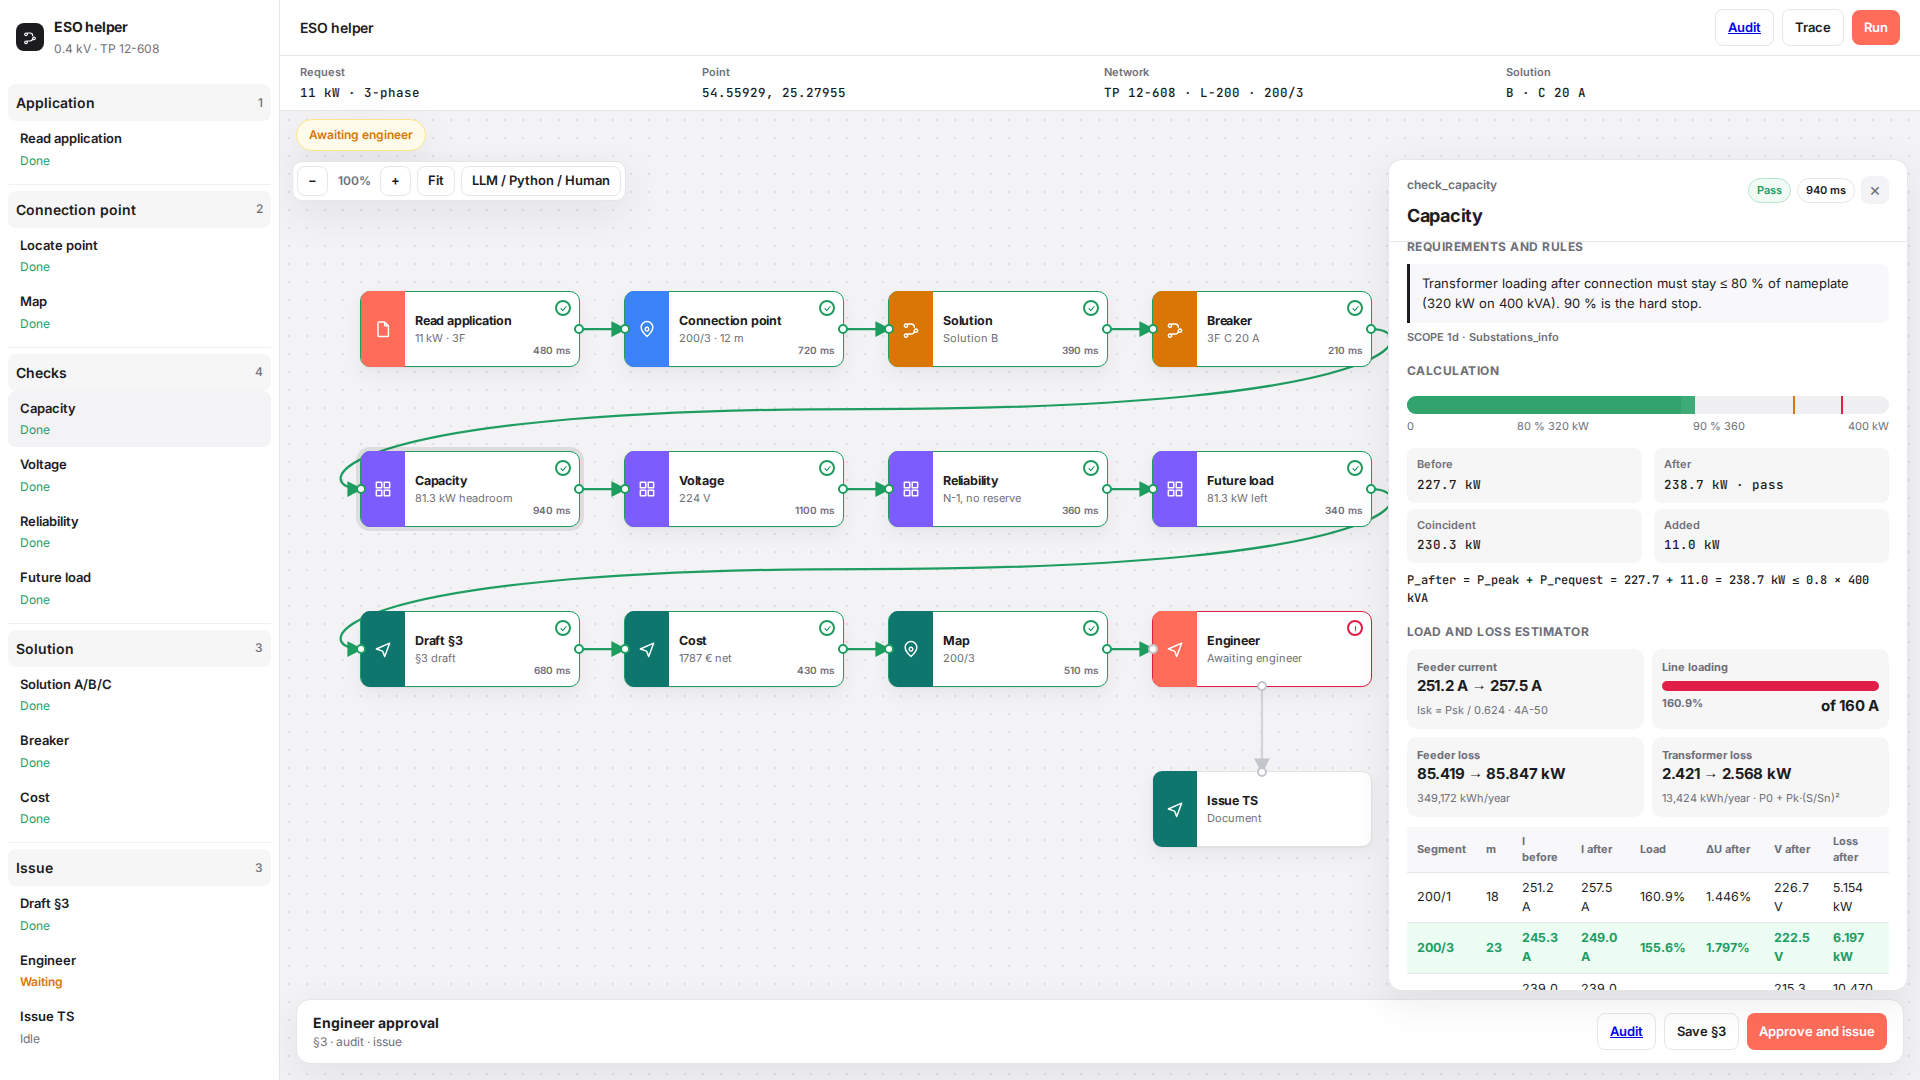
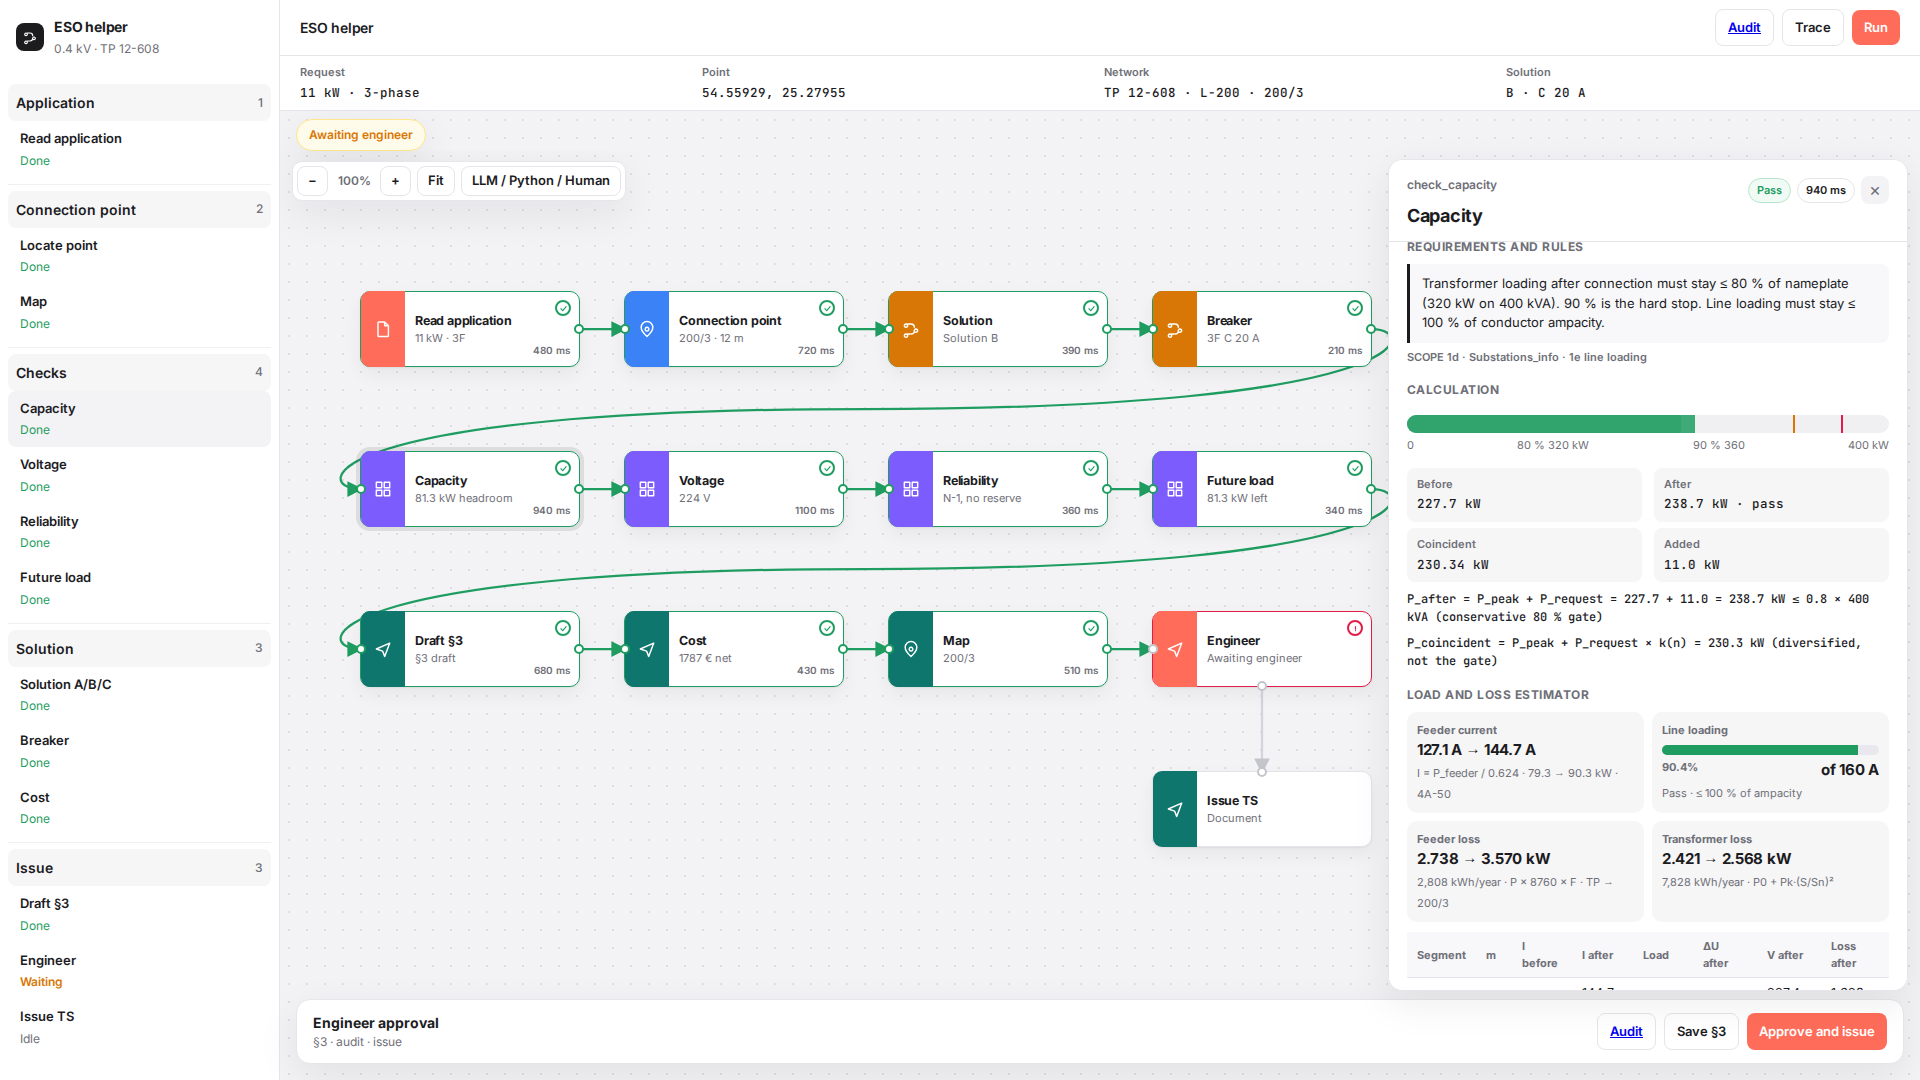
Refresh 1920x1080 screenshots after the load/loss credibility fix.
Capacity, voltage and solution shots now show L-200 meter-peak current,
90.4% line loading, a few kW of feeder loss, and 224.0 V at 200/3.

Changed region(s): [[0.7188, 0.275, 0.9688, 0.9167], [0.9062, 0.275, 0.9688, 0.3056]]

diff --git a/web/src/components/viz/TransformerBar.jsx b/web/src/components/viz/TransformerBar.jsx
@@ -23,7 +23,7 @@ export default function TransformerBar({ bar, pass }) {
       <div className="kv">
         <div><b>Before</b><span>{fmtNum(bar.before_kw)} kW</span></div>
         <div><b>After</b><span>{fmtNum(bar.after_kw)} kW {pass ? "· pass" : "· fail"}</span></div>
-        <div><b>Coincident</b><span>{fmtNum(bar.coincident_kw)} kW</span></div>
+        <div><b>Coincident</b><span>{fmtNum(bar.coincident_kw, 2)} kW</span></div>
         <div><b>Added</b><span>{fmtNum(bar.added_kw)} kW</span></div>
       </div>
       <p className="formula">P_after = P_peak + P_request = {fmtNum(bar.before_kw)} + {fmtNum(bar.added_kw)} = {fmtNum(bar.after_kw)} kW ≤ 0.8 × 400 kVA (conservative 80 % gate)</p>
